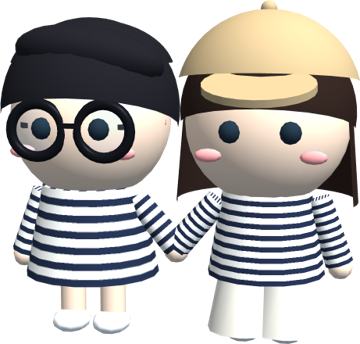
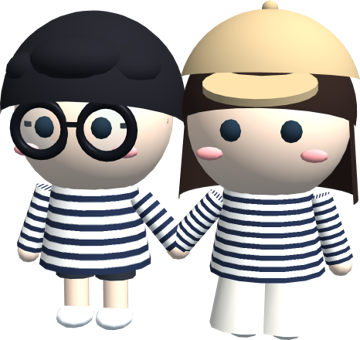
윤재: back to the earlier hair and tee, keep the bigger glasses
Claude-Session: https://claude.ai/code/session_013vFLV6YompNzPZ2jyR4KeR

diff --git a/hongkong-2026/index.html b/hongkong-2026/index.html
@@ -676,9 +676,7 @@ function chibi(o){ const g=new THREE.Group(); const legs=[]; const stripe=new TH
   const head=new THREE.Mesh(new THREE.SphereGeometry(.5,24,18),mat(SKIN)); head.position.y=1.32; g.add(head);
   const hair=mat(o.hair); const hr=new THREE.Mesh(new THREE.SphereGeometry(.53,24,14,0,Math.PI*2,0,Math.PI*.55),hair); hr.position.y=1.37; hr.rotation.x=-.28; g.add(hr);
   if(o.long){ const back=new THREE.Mesh(new THREE.CylinderGeometry(.5,.55,.62,24,1,true,Math.PI*.4,Math.PI*1.2),mat(o.hair,{side:THREE.DoubleSide})); back.position.y=1.15; g.add(back); }
-  if(o.fluffy){ hr.scale.set(1.05,1.04,1.06); hr.position.y=1.39; hr.rotation.x=-.32;
-    const front=new THREE.Mesh(new THREE.SphereGeometry(.3,24,16),hair); front.scale.set(1.55,.62,.95); front.position.set(.04,1.7,.17); front.rotation.z=-.14; front.rotation.x=-.25; g.add(front);
-    const top=new THREE.Mesh(new THREE.SphereGeometry(.5,24,14,0,Math.PI*2,0,Math.PI*.42),hair); top.scale.set(1.04,.7,1.04); top.position.set(0,1.58,-.04); g.add(top); }
+  if(o.fluffy){ hr.scale.set(1.1,1.12,1.1); hr.position.y=1.39; [[0,.36,.3,.3,.55],[-.24,.3,.22,.24,.6],[.24,.3,.22,.24,.6],[0,.42,-.1,.34,.6]].forEach(([x,y,z,r,sy])=>{ const m=new THREE.Mesh(new THREE.SphereGeometry(r,16,12),hair); m.scale.y=sy; m.position.set(x,1.32+y,z); g.add(m); }); }
   if(o.cap){ const cm=mat(o.cap); const dome=new THREE.Mesh(new THREE.SphereGeometry(.56,24,12,0,Math.PI*2,0,Math.PI*.42),cm); dome.position.y=1.43; dome.rotation.x=-.12; g.add(dome); const brim=new THREE.Mesh(new THREE.CylinderGeometry(.32,.32,.045,24),cm); brim.scale.z=.8; brim.position.set(0,1.56,.56); brim.rotation.x=.3; g.add(brim); const btn=new THREE.Mesh(new THREE.SphereGeometry(.05,8,6),cm); btn.position.y=1.99; g.add(btn); }
   const eye=mat('#1E2E3B'); [-.17,.17].forEach(dx=>{ const e=new THREE.Mesh(new THREE.SphereGeometry(.065,8,6),eye); e.position.set(dx,1.3,.47); g.add(e); });
   if(o.glasses){ const gm=mat('#111318',{roughness:.4}); [-.2,.2].forEach(dx=>{ const rim=new THREE.Mesh(new THREE.TorusGeometry(.155,.032,8,28),gm); rim.position.set(dx,1.29,.47); g.add(rim); const lens=new THREE.Mesh(new THREE.CircleGeometry(.15,24),new THREE.MeshStandardMaterial({color:'#CFE2F0',transparent:true,opacity:.18,roughness:.1})); lens.position.set(dx,1.29,.473); g.add(lens); });
@@ -686,7 +684,7 @@ function chibi(o){ const g=new THREE.Group(); const legs=[]; const stripe=new TH
     [-1,1].forEach(sd=>{ const tp=new THREE.Mesh(new THREE.BoxGeometry(.03,.03,.4),gm); tp.position.set(sd*.38,1.31,.25); tp.rotation.y=-sd*.5; g.add(tp); }); }
   const bl=mat('#FFA3A3'); [-.3,.3].forEach(dx=>{ const e=new THREE.Mesh(new THREE.SphereGeometry(.08,8,6),bl); e.scale.set(1,.5,.4); e.position.set(dx,1.16,.43); g.add(e); });
   g.traverse(m=>m.castShadow=true); g.userData.legs=legs; return g; }
-const duo=new THREE.Group(); const yj=chibi({hair:'#1C1C22',shorts:'#2B2F36',stripes:6,fluffy:true,hold:1,glasses:true,loose:true}); yj.position.x=-.55; duo.add(yj); const gf=chibi({hair:'#2A1E1A',pants:'#EEE9DE',cap:'#BBA47C',long:true,stripes:8,shoe:'#F2EFE8',hold:-1}); gf.position.x=.55; duo.add(gf);
+const duo=new THREE.Group(); const yj=chibi({hair:'#1C1C22',shorts:'#2B2F36',stripes:6,fluffy:true,hold:1,glasses:true}); yj.position.x=-.55; duo.add(yj); const gf=chibi({hair:'#2A1E1A',pants:'#EEE9DE',cap:'#BBA47C',long:true,stripes:8,shoe:'#F2EFE8',hold:-1}); gf.position.x=.55; duo.add(gf);
 const disc=new THREE.Mesh(new THREE.CircleGeometry(1.2,24),new THREE.MeshBasicMaterial({color:0x000000,transparent:true,opacity:.15})); disc.rotation.x=-Math.PI/2; disc.position.y=.03; duo.add(disc);
 const marker=new THREE.Mesh(new THREE.OctahedronGeometry(.24),new THREE.MeshStandardMaterial({color:DAYC[0],emissive:new THREE.Color(DAYC[0]),emissiveIntensity:.35})); marker.position.y=2.55; duo.add(marker);
 /* ---- symphony of lights: landmark towers + beams ---- */

diff --git a/src/template.html b/src/template.html
@@ -674,9 +674,7 @@ function chibi(o){ const g=new THREE.Group(); const legs=[]; const stripe=new TH
   const head=new THREE.Mesh(new THREE.SphereGeometry(.5,24,18),mat(SKIN)); head.position.y=1.32; g.add(head);
   const hair=mat(o.hair); const hr=new THREE.Mesh(new THREE.SphereGeometry(.53,24,14,0,Math.PI*2,0,Math.PI*.55),hair); hr.position.y=1.37; hr.rotation.x=-.28; g.add(hr);
   if(o.long){ const back=new THREE.Mesh(new THREE.CylinderGeometry(.5,.55,.62,24,1,true,Math.PI*.4,Math.PI*1.2),mat(o.hair,{side:THREE.DoubleSide})); back.position.y=1.15; g.add(back); }
-  if(o.fluffy){ hr.scale.set(1.05,1.04,1.06); hr.position.y=1.39; hr.rotation.x=-.32;
-    const front=new THREE.Mesh(new THREE.SphereGeometry(.3,24,16),hair); front.scale.set(1.55,.62,.95); front.position.set(.04,1.7,.17); front.rotation.z=-.14; front.rotation.x=-.25; g.add(front);
-    const top=new THREE.Mesh(new THREE.SphereGeometry(.5,24,14,0,Math.PI*2,0,Math.PI*.42),hair); top.scale.set(1.04,.7,1.04); top.position.set(0,1.58,-.04); g.add(top); }
+  if(o.fluffy){ hr.scale.set(1.1,1.12,1.1); hr.position.y=1.39; [[0,.36,.3,.3,.55],[-.24,.3,.22,.24,.6],[.24,.3,.22,.24,.6],[0,.42,-.1,.34,.6]].forEach(([x,y,z,r,sy])=>{ const m=new THREE.Mesh(new THREE.SphereGeometry(r,16,12),hair); m.scale.y=sy; m.position.set(x,1.32+y,z); g.add(m); }); }
   if(o.cap){ const cm=mat(o.cap); const dome=new THREE.Mesh(new THREE.SphereGeometry(.56,24,12,0,Math.PI*2,0,Math.PI*.42),cm); dome.position.y=1.43; dome.rotation.x=-.12; g.add(dome); const brim=new THREE.Mesh(new THREE.CylinderGeometry(.32,.32,.045,24),cm); brim.scale.z=.8; brim.position.set(0,1.56,.56); brim.rotation.x=.3; g.add(brim); const btn=new THREE.Mesh(new THREE.SphereGeometry(.05,8,6),cm); btn.position.y=1.99; g.add(btn); }
   const eye=mat('#1E2E3B'); [-.17,.17].forEach(dx=>{ const e=new THREE.Mesh(new THREE.SphereGeometry(.065,8,6),eye); e.position.set(dx,1.3,.47); g.add(e); });
   if(o.glasses){ const gm=mat('#111318',{roughness:.4}); [-.2,.2].forEach(dx=>{ const rim=new THREE.Mesh(new THREE.TorusGeometry(.155,.032,8,28),gm); rim.position.set(dx,1.29,.47); g.add(rim); const lens=new THREE.Mesh(new THREE.CircleGeometry(.15,24),new THREE.MeshStandardMaterial({color:'#CFE2F0',transparent:true,opacity:.18,roughness:.1})); lens.position.set(dx,1.29,.473); g.add(lens); });
@@ -684,7 +682,7 @@ function chibi(o){ const g=new THREE.Group(); const legs=[]; const stripe=new TH
     [-1,1].forEach(sd=>{ const tp=new THREE.Mesh(new THREE.BoxGeometry(.03,.03,.4),gm); tp.position.set(sd*.38,1.31,.25); tp.rotation.y=-sd*.5; g.add(tp); }); }
   const bl=mat('#FFA3A3'); [-.3,.3].forEach(dx=>{ const e=new THREE.Mesh(new THREE.SphereGeometry(.08,8,6),bl); e.scale.set(1,.5,.4); e.position.set(dx,1.16,.43); g.add(e); });
   g.traverse(m=>m.castShadow=true); g.userData.legs=legs; return g; }
-const duo=new THREE.Group(); const yj=chibi({hair:'#1C1C22',shorts:'#2B2F36',stripes:6,fluffy:true,hold:1,glasses:true,loose:true}); yj.position.x=-.55; duo.add(yj); const gf=chibi({hair:'#2A1E1A',pants:'#EEE9DE',cap:'#BBA47C',long:true,stripes:8,shoe:'#F2EFE8',hold:-1}); gf.position.x=.55; duo.add(gf);
+const duo=new THREE.Group(); const yj=chibi({hair:'#1C1C22',shorts:'#2B2F36',stripes:6,fluffy:true,hold:1,glasses:true}); yj.position.x=-.55; duo.add(yj); const gf=chibi({hair:'#2A1E1A',pants:'#EEE9DE',cap:'#BBA47C',long:true,stripes:8,shoe:'#F2EFE8',hold:-1}); gf.position.x=.55; duo.add(gf);
 const disc=new THREE.Mesh(new THREE.CircleGeometry(1.2,24),new THREE.MeshBasicMaterial({color:0x000000,transparent:true,opacity:.15})); disc.rotation.x=-Math.PI/2; disc.position.y=.03; duo.add(disc);
 const marker=new THREE.Mesh(new THREE.OctahedronGeometry(.24),new THREE.MeshStandardMaterial({color:DAYC[0],emissive:new THREE.Color(DAYC[0]),emissiveIntensity:.35})); marker.position.y=2.55; duo.add(marker);
 /* ---- symphony of lights: landmark towers + beams ---- */
